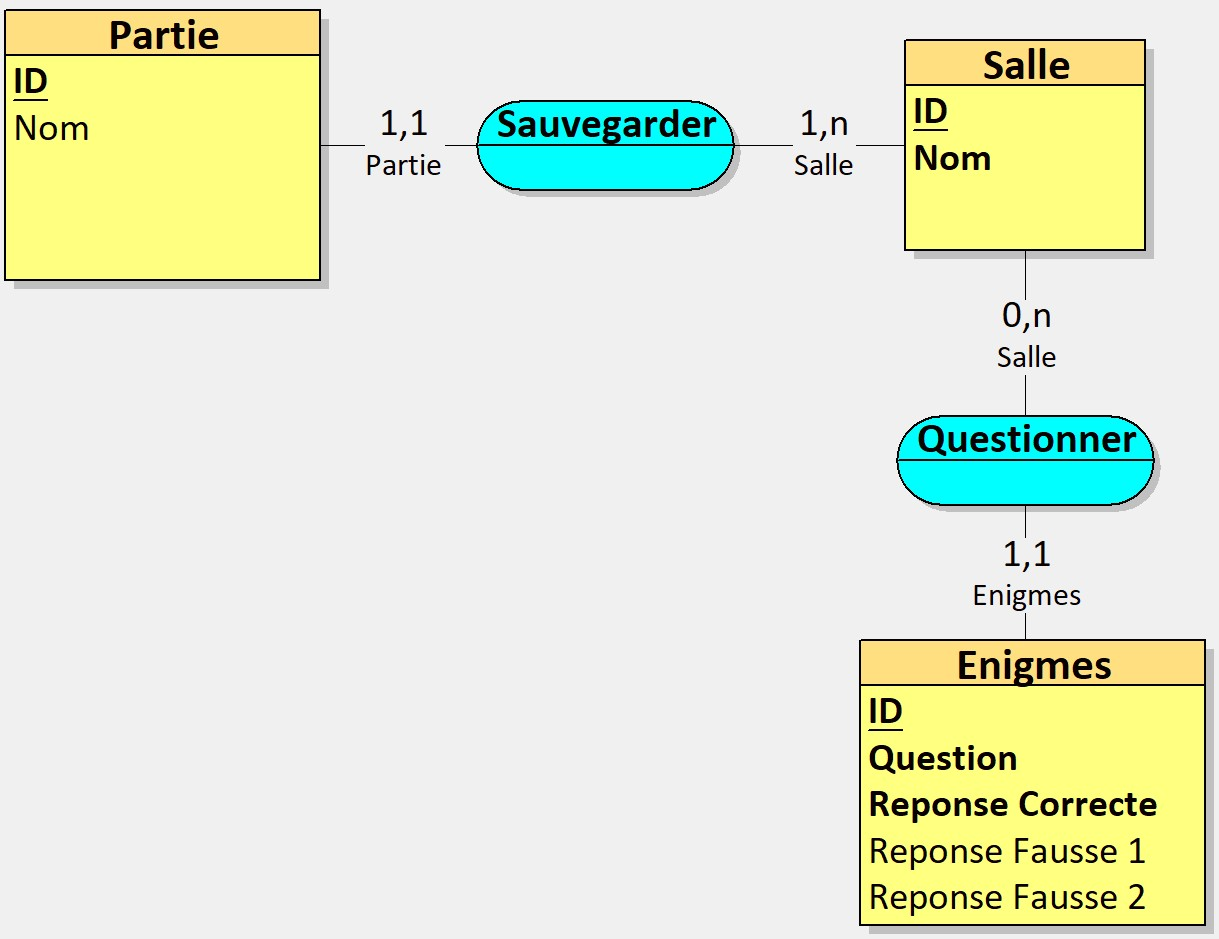
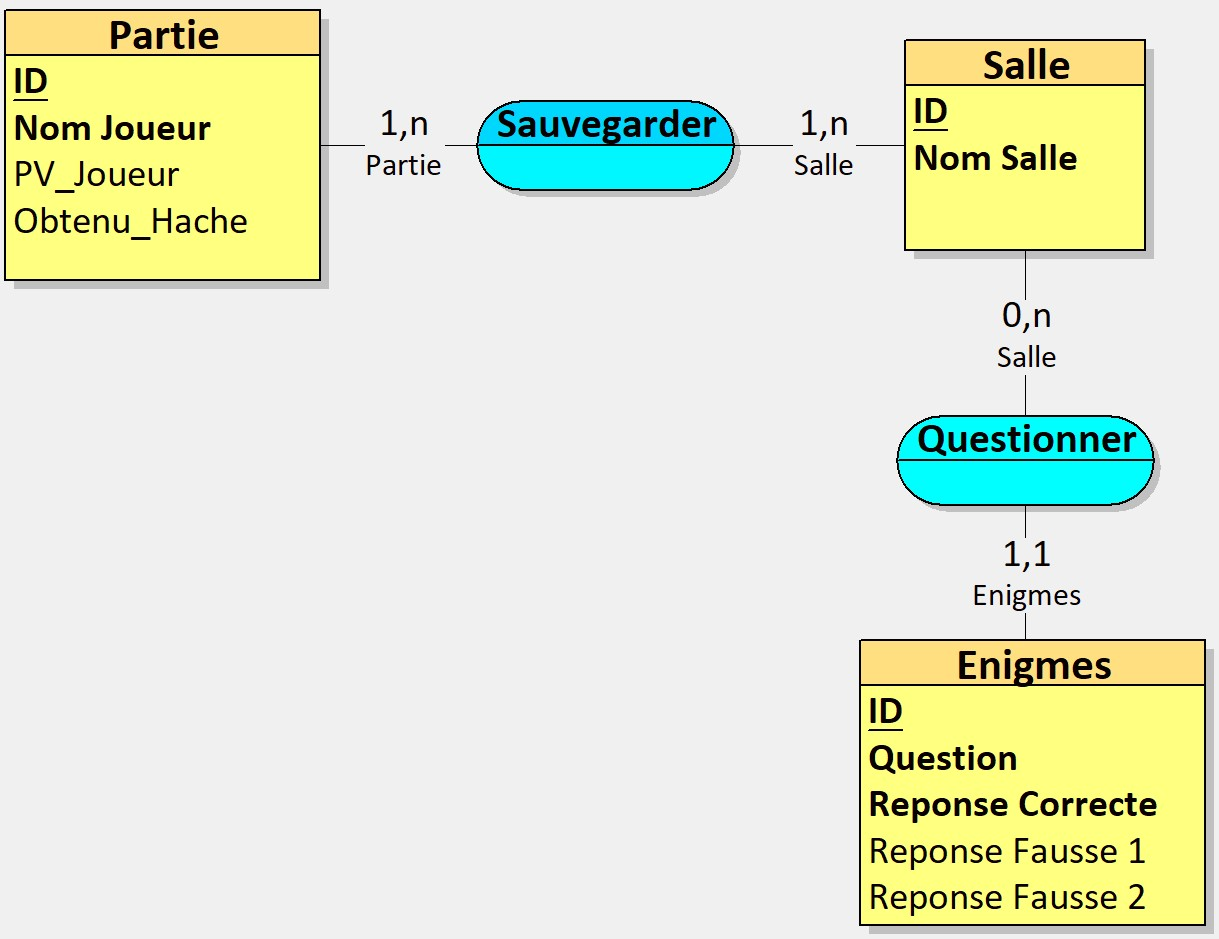
Nouveau MCD qui permet de traquer données par partie. Database class mise à jour pour transcrire le nouveau MCD en database. Création classe Intro et Salle 1 pour séparer les codes des différentes salles Création système de pile pour les salles, non fini.

Changed region(s): [[0.0, 0.1235, 0.2182, 0.278], [0.3117, 0.0927, 0.6235, 0.1544], [0.8105, 0.1544, 0.904, 0.1853]]

diff --git a/Evasion_Du_Serveur_TC/Program.cs b/Evasion_Du_Serveur_TC/Program.cs
@@ -4,7 +4,6 @@ internal class Program
 {
     private static void Main(string[] args)
     {
-        //Console.OutputEncoding = System.Text.Encoding.UTF8;
         Console.OutputEncoding = System.Text.Encoding.Unicode;
         Console.ForegroundColor = ConsoleColor.DarkGreen;
 
@@ -13,112 +12,19 @@ internal class Program
 
         // Syntaxe =>  MyMethods.SlowWriteLine(StoryText.Get("CléDuTexte", GlobalVariable.heroName si besoin));
 
+        Intro.JeuIntro();
 
-        Console.WriteLine("Entrer votre nom :");
-        GlobalVariable.heroName = Console.ReadLine();
-        while (string.IsNullOrWhiteSpace(GlobalVariable.heroName) || string.IsNullOrEmpty(GlobalVariable.heroName) || GlobalVariable.heroName.Length > 14)
-        {
-            MyMethods.RegularWriteLine("Entrez un nom adéquat (moins de 14 charactères)");
-            GlobalVariable.heroName = Console.ReadLine();
-        }
-
-        Console.Clear();
-
-        MyMethods.RegularWriteLine($"{GlobalVariable.heroName} s'éveille sur une table dans un endroit inattendu.");
-        MyMethods.AttendreContinuer();
-        MyMethods.RegularWriteLine(StoryText.Get("Intro1"));
-        MyMethods.AttendreContinuer();
-        MyMethods.RegularWriteLine(StoryText.Get("Intro2", GlobalVariable.heroName));
-        MyMethods.AttendreContinuer();
-
-        while (GlobalVariable.dansSalle1)
-        {
-            Console.Clear();
-            MyMethods.ImprimerPV();
-            MyMethods.RegularWriteLine("Que faire ?");
-            MyMethods.WriteMenu(GlobalVariable.menuSalle1);
-            string choix1 = Console.ReadLine();
-
-            if (!GlobalVariable.casiersFouilles)
-            {
-                while (choix1 != "1" && choix1 != "2")
-                {
-                    MyMethods.RegularWriteLine("Entrez 1 ou 2 pour choisir quoi faire.");
-                    choix1 = Console.ReadLine();
-                }
-            }
-            else
-            {
-                while (choix1 != "1")
-                {
-                    MyMethods.RegularWriteLine("Entrez 1 pour continuer.");
-                    choix1 = Console.ReadLine();
-                }
-            }
-            Console.Clear();
-            switch (choix1)
-            {
-                case "1":
-                    if (!GlobalVariable.terminalInspecte)
-                    {
-                        MyMethods.RegularWriteLine(StoryText.Get("ApprocheTerminalSalle1", GlobalVariable.heroName));
-                        MyMethods.AttendreContinuer();
-                        MyMethods.RegularWriteLine(StoryText.Get("ApprocheTerminalSalle2", GlobalVariable.heroName));
-                        MyMethods.AttendreContinuer();
-                        MyMethods.RegularWriteLine(StoryText.Get("ApprocheTerminalSalle3"));
-                        MyMethods.AttendreContinuer();
-                        MyMethods.RegularWriteLine(StoryText.Get("ApprocheTerminalSalle4"));
-                        MyMethods.AttendreContinuer();
-                        GlobalVariable.menuSalle1["1"] = "Tenter de résoudre une énigme";
-                        GlobalVariable.terminalInspecte = true;
-                        break;
-                    }
-                    else if (!GlobalVariable.finiEnigmesSalle1)
-                    {
-                        MyMethods.RegularWriteLine(StoryText.Get("LectureEnigmeSalle1", GlobalVariable.heroName));
-                        MyMethods.AttendreContinuer();
-                        Dictionary<string, object> question = DatabaseClass.ObtainRandomQuestion(1);
-                        MyMethods.HandleQuestion(question);
-                        break;
-                    }
-
-                    break;
-                case "2":
-                    GlobalVariable.casiersFouilles = true;
-                    GlobalVariable.menuSalle1.Remove("2");
-                    GlobalVariable.preventionSortieSalle1 = "";
-                    MyMethods.RegularWriteLine(StoryText.Get("CasierFouiller", GlobalVariable.heroName));
-                    MyMethods.AttendreContinuer();
-                    break;
-            }
-
-        }
+        Salle_1.JeuSalle1();
 
 
 
 
-        /*
-        if (!Global.casiersFouilles)
-        {
-            TextMethods.FastWriteLine("Cette action est irréversible. Est-vous sûr de vouloir quitter la salle ?");
-            TextMethods.RegularWriteLine("1. Sortir   2. Ne pas sortir tout de suite");
-            preventionSortieSalle1 = Console.ReadLine();
-
-        }
-        if (Global.preventionSortieSalle1 == "2")
-        {
-            break;
-        }
-        Console.Clear();
-        Global.dansSalle1 = false;
-        Global.dansSalle2 = true;
-        break;
-        */
 
 
 
 
-        while (GlobalVariable.dansSalle2)
+
+        while (GlobalVariable.salleActuelle.Peek() == "2")
         {
             Console.Clear();
             MyMethods.RegularWriteLine("Que faire ?");

diff --git a/Evasion_Du_Serveur_TC/Salle 1.cs b/Evasion_Du_Serveur_TC/Salle 1.cs
@@ -1,0 +1,102 @@
+using Evasion_Du_Serveur_TC;
+using System;
+using System.Collections.Generic;
+using System.Text;
+
+namespace Evasion_Du_Serveur_TC
+{
+    internal class Salle_1
+    {
+        public static void JeuSalle1()
+        {
+            while (GlobalVariable.salleActuelle.Peek() == "1")
+            {
+                Console.Clear();
+                MyMethods.ImprimerPV();
+                MyMethods.RegularWriteLine("Que faire ?");
+                MyMethods.WriteMenu(GlobalVariable.menuSalle1);
+                string choix1 = Console.ReadLine();
+
+                if (!GlobalVariable.casiersFouilles)
+                {
+                    while (choix1 != "1" && choix1 != "2")
+                    {
+                        MyMethods.RegularWriteLine("Entrez 1 ou 2 pour choisir quoi faire.");
+                        choix1 = Console.ReadLine();
+                    }
+                }
+                else
+                {
+                    while (choix1 != "1")
+                    {
+                        MyMethods.RegularWriteLine("Entrez 1 pour continuer.");
+                        choix1 = Console.ReadLine();
+                    }
+                }
+                Console.Clear();
+                switch (choix1)
+                {
+                    case "1":
+                        if (!GlobalVariable.terminalInspecte)
+                        {
+                            MyMethods.RegularWriteLine(StoryText.Get("ApprocheTerminalSalle1", GlobalVariable.heroName));
+                            MyMethods.AttendreContinuer();
+                            MyMethods.RegularWriteLine(StoryText.Get("ApprocheTerminalSalle2", GlobalVariable.heroName));
+                            MyMethods.AttendreContinuer();
+                            MyMethods.RegularWriteLine(StoryText.Get("ApprocheTerminalSalle3"));
+                            MyMethods.AttendreContinuer();
+                            MyMethods.RegularWriteLine(StoryText.Get("ApprocheTerminalSalle4"));
+                            MyMethods.AttendreContinuer();
+                            GlobalVariable.menuSalle1["1"] = "Tenter de résoudre une énigme";
+                            GlobalVariable.terminalInspecte = true;
+                            break;
+                        }
+                        else if (!GlobalVariable.finiEnigmesSalle1)
+                        {
+                            if (!GlobalVariable.finiPremiereEnigme)
+                            {
+                                MyMethods.RegularWriteLine(StoryText.Get("LectureEnigmeSalle1", GlobalVariable.heroName));
+                                MyMethods.AttendreContinuer();
+                                Dictionary<string, object> question = DatabaseClass.ObtainRandomQuestion(1);
+                                MyMethods.HandleQuestion(question);
+                                break;
+                            }
+                            else
+                            {
+                                Dictionary<string, object> question = DatabaseClass.ObtainRandomQuestion(1);
+                                MyMethods.HandleQuestion(question);
+                                break;
+                            }
+                        }
+                        break;
+                    case "2":
+                        GlobalVariable.casiersFouilles = true;
+                        GlobalVariable.menuSalle1.Remove("2");
+                        GlobalVariable.preventionSortieSalle1 = "";
+                        MyMethods.RegularWriteLine(StoryText.Get("CasierFouiller", GlobalVariable.heroName));
+                        MyMethods.AttendreContinuer();
+                        break;
+                }
+                    /*
+                    if (!Global.casiersFouilles)
+                    {
+                        TextMethods.FastWriteLine("Cette action est irréversible. Est-vous sûr de vouloir quitter la salle ?");
+                        TextMethods.RegularWriteLine("1. Sortir   2. Ne pas sortir tout de suite");
+                        preventionSortieSalle1 = Console.ReadLine();
+
+                    }
+                    if (Global.preventionSortieSalle1 == "2")
+                    {
+                        break;
+                    }
+                    Console.Clear();
+                    Global.dansSalle1 = false;
+                    Global.dansSalle2 = true;
+                    break;
+                    */
+            }
+
+
+        }
+    }
+}

diff --git a/Evasion_Du_Serveur_TC/DatabaseClass.cs b/Evasion_Du_Serveur_TC/DatabaseClass.cs
@@ -12,22 +12,23 @@ namespace Evasion_Du_Serveur_TC
             databaseConnection.Open();
             var tableCmd = databaseConnection.CreateCommand();
             tableCmd.CommandText = @"
-            CREATE TABLE IF NOT EXISTS Salle (
+                CREATE TABLE IF NOT EXISTS Partie(
                 ID INTEGER,
-                Nom TEXT NOT NULL,
+                PV_Joueur INTEGER NOT NULL,
+                Obtenu_Hache INT NOT NULL,
+                Nom_Joueur TEXT NOT NULL,
                 PRIMARY KEY(ID AUTOINCREMENT),
-                UNIQUE(Nom)
+                UNIQUE(Nom_Joueur)
             )STRICT;
 
-            CREATE TABLE IF NOT EXISTS Partie (
+            CREATE TABLE IF NOT EXISTS Salle(
                 ID INTEGER,
-                Nom TEXT NOT NULL,
-                ID_Salle INTEGER NOT NULL,
+                Nom_Salle TEXT NOT NULL,
                 PRIMARY KEY(ID AUTOINCREMENT),
-                FOREIGN KEY(ID_Salle) REFERENCES Salle(ID)
+                UNIQUE(Nom_Salle)
             )STRICT;
 
-            CREATE TABLE IF NOT EXISTS Enigmes (
+            CREATE TABLE IF NOT EXISTS Enigmes(
                 ID INTEGER,
                 Question TEXT NOT NULL,
                 Reponse_Correcte TEXT NOT NULL,
@@ -39,9 +40,14 @@ namespace Evasion_Du_Serveur_TC
                 UNIQUE(Reponse_Correcte),
                 FOREIGN KEY(ID_Salle) REFERENCES Salle(ID)
             )STRICT;
-            
-         
-";
+
+            CREATE TABLE IF NOT EXISTS Sauvegarder(
+                ID_Partie INTEGER,
+                ID_Salle INTEGER,
+                PRIMARY KEY(ID_Partie, ID_Salle),
+                FOREIGN KEY(ID_Partie) REFERENCES Partie(ID),
+                FOREIGN KEY(ID_Salle) REFERENCES Salle(ID)
+            )STRICT;";
             tableCmd.ExecuteNonQuery();
             databaseConnection.Close();
         }

diff --git a/Evasion_Du_Serveur_TC/Intro.cs b/Evasion_Du_Serveur_TC/Intro.cs
@@ -1,0 +1,31 @@
+using System;
+using System.Collections.Generic;
+using System.Text;
+
+namespace Evasion_Du_Serveur_TC
+{
+    internal class Intro
+    {
+        public static void JeuIntro()
+        {
+            Console.WriteLine("Entrer votre nom :");
+            GlobalVariable.heroName = Console.ReadLine();
+            while (string.IsNullOrWhiteSpace(GlobalVariable.heroName) || string.IsNullOrEmpty(GlobalVariable.heroName) || GlobalVariable.heroName.Length > 20)
+            {
+                MyMethods.RegularWriteLine("Entrez un nom adéquat (moins de 20 charactères)");
+                GlobalVariable.heroName = Console.ReadLine();
+            }
+
+            Console.Clear();
+
+            MyMethods.RegularWriteLine($"{GlobalVariable.heroName} s'éveille sur une table dans un endroit inattendu.");
+            MyMethods.AttendreContinuer();
+            MyMethods.RegularWriteLine(StoryText.Get("Intro1"));
+            MyMethods.AttendreContinuer();
+            MyMethods.RegularWriteLine(StoryText.Get("Intro2", GlobalVariable.heroName));
+            MyMethods.AttendreContinuer();
+
+            GlobalVariable.salleActuelle.Push("1");
+        }
+    }
+}

diff --git a/Evasion_Du_Serveur_TC/GlobalVariable.cs b/Evasion_Du_Serveur_TC/GlobalVariable.cs
@@ -11,10 +11,11 @@ namespace Evasion_Du_Serveur_TC
         public static bool dejaPerduPV = false;
         public static string heroName = "";
 
-
+        public static Stack<string> salleActuelle = new();
         public static bool dansSalle1 = true;
         public static bool casiersFouilles = false;
         public static bool terminalInspecte = false;
+        public static bool finiPremiereEnigme = false;
         public static bool finiEnigmesSalle1 = false;
         public static string preventionSortieSalle1 = "";
         public static Dictionary<string, string> menuSalle1 = new Dictionary<string, string>

diff --git a/README.md b/README.md
@@ -1,2 +1,18 @@
 # Thibault-Chognard-PP2-Evasion-du-Serveur
+
 Projet Personnel 2 : Evasion du serveur Projet DI26
+
+
+
+Thème des salles = 
+
+&#x09;1.?Random ?
+
+&#x09;2.Informatique
+
+&#x09;3.Animaux
+
+&#x09;4.Musique
+
+&#x09;5.Histoire ?
+
